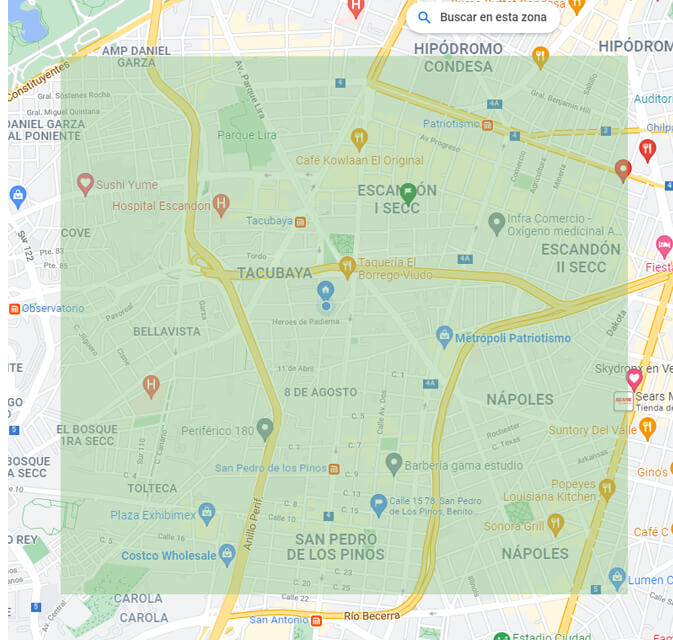
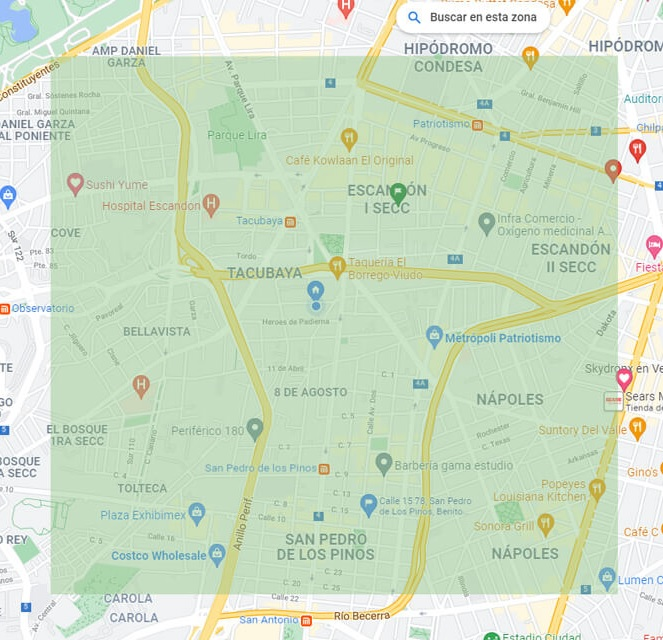
cambios esteticos y animaciones

diff --git a/pages/preguntasFrecuentes.html b/pages/preguntasFrecuentes.html
@@ -16,6 +16,8 @@
   <link rel="preconnect" href="https://fonts.googleapis.com" />
   <link rel="preconnect" href="https://fonts.gstatic.com" crossorigin />
   <link href="https://fonts.googleapis.com/css2?family=Josefin+Sans:ital@1&display=swap" rel="stylesheet" />
+  <!--animateCss-->
+  <link rel="stylesheet" href="https://cdnjs.cloudflare.com/ajax/libs/animate.css/4.1.1/animate.min.css" />
   <!--CSS-->
   <link rel="stylesheet" href="../css/main.css" />
   <!--<link rel="stylesheet" href="../css/respaldo.css" />-->
@@ -63,8 +65,8 @@
   </header>
   <main>
     <section class="preguntasInicio">
-      <h1 class="titulosDoc">Preguntas Frecuentes.</h1>
-      <h2 class="subtitulos">
+      <h1 class="titulosDoc animate__animated animate__backInLeft">Preguntas Frecuentes.</h1>
+      <h2 class="subtitulos animate__animated animate__backInRight">
         Queremos que sea un negocio completamente transparente.
       </h2>
       <div class="pfContenedor">
@@ -80,7 +82,7 @@
         </div>
         <img src="../media/images/faq.png" alt="Imagen de Duda" />
       </div>
-      <div class="accordion accordion-flush" id="accordionFlushExample" style="background-color: blue">
+      <div class="accordion accordion-flush animate__animated animate__backInUp" id="accordionFlushExample" style="background-color: blue">
         <div class="accordion-item">
           <h2 class="accordion-header" id="headingOne">
             <button class="accordion-button" type="button" data-bs-toggle="collapse" data-bs-target="#collapseOne"
@@ -88,13 +90,13 @@
               ¿Comparten todas las visiones de la alimentación?
             </button>
           </h2>
-          <div id="collapseOne" class="accordion-collapse collapse show" aria-labelledby="headingOne"
+          <div id="collapseOne" class="accordion-collapse collapse" aria-labelledby="headingOne"
             data-bs-parent="#accordionExample">
             <div class="accordion-body">
-              Contamos con un menú vegano que cumple con todos los
+              <p style="color: #c03370;"> Contamos con un menú vegano que cumple con todos los
               requerimientos nutricionales necesarios en una comida, y
               contamos con platillos bajos en calorías para las personas que
-              necesitan cuidar su alimentacion y su peso.
+              necesitan cuidar su alimentacion y su peso. </p>
             </div>
           </div>
         </div>
@@ -108,9 +110,9 @@
           <div id="collapseTwo" class="accordion-collapse collapse" aria-labelledby="headingTwo"
             data-bs-parent="#accordionExample">
             <div class="accordion-body">
-              Utilizamos para transportarnos biciletas mecánicas para los
+              <p style="color: #c03370;"> Utilizamos para transportarnos biciletas mecánicas para los
               envíos cercanos, y para los envíos más alejados bicicleta
-              eléctrica. Nuestras emisiones son prácticamente inexistentes :)
+              eléctrica. Nuestras emisiones son prácticamente inexistentes :) </p>
             </div>
           </div>
         </div>
@@ -124,15 +126,15 @@
           <div id="collapseThree" class="accordion-collapse collapse" aria-labelledby="headingThree"
             data-bs-parent="#accordionExample">
             <div class="accordion-body">
-              No te preocupes más por los residuos, pues nuestros empaques son
+              <p style="color: #c03370;"> No te preocupes más por los residuos, pues nuestros empaques son
               100% biodegradables y reciclables, además de que contamos con la
               opción de utilizar tus propios tuppers para la comida (nosotros
-              los recojemos y después te los enviamos con rica comida)
+              los recojemos y después te los enviamos con deliciosa comida)</p>
             </div>
           </div>
         </div>
       </div>
-      <p class="textosComunes">
+      <p class="textosComunes animate__animated animate__backInUp">
         Si no logramos responder tus dudas, no dudes en comunicarte con
         nosotros en "Contacto", enviarnos un correo o comunicarte con nosotros
         por whastapp (whatsapp unicamente en horario de 6pm a 11 pm)

diff --git a/pages/encuentranos.html b/pages/encuentranos.html
@@ -81,12 +81,12 @@
             </p>
         </section>
         <section class="iframe">
-            <div class="iframe__contenedor">
+            <div class="iframe__contenedor animate__animated animate__fadeInLeft">
                 <iframe
                     src="https://www.google.com/maps/embed?pb=!1m18!1m12!1m3!1d2986.968425522168!2d-99.1857784536736!3d19.397535925084952!2m3!1f0!2f0!3f0!3m2!1i1024!2i768!4f13.1!3m3!1m2!1s0x85d1ff639f88ac35%3A0x4d53ab96b42cb916!2sHeroes%20de%201810%2011%2C%20Tacubaya%2C%20Miguel%20Hidalgo%2C%2011870%20Ciudad%20de%20M%C3%A9xico%2C%20CDMX!5e0!3m2!1ses!2smx!4v1641775980747!5m2!1ses!2smx"
                     width="100%" height="450px" style="border:0;" allowfullscreen="" loading="lazy"></iframe>
             </div>
-            <ul class="iframe__lista">
+            <ul class="iframe__lista animate__animated animate__fadeInRight">
                 <li>Dirección: <i class="fas fa-map-marked-alt"></i> </li>
                 <li>Avenida Siempre viva 345, Iztacalco</li>
                 <li>Colonia Tacubaya</li>
@@ -95,10 +95,10 @@
             </ul>
         </section>
         <section class="envios">
-            <h2 class="titulosDoc">Cobertura de envíos</h2>
+            <h2 class="titulosDoc">Cobertura de envíos.</h2>
             <div class="envios__contenedor">
-                <img src="../media/images/mapaDisponible.jpg" alt="mapa">
-                <div class="contenedor__texto">
+                <img src="../media/images/mapaDisponible.jpg" data-aos="fade-right" alt="mapa">
+                <div class="contenedor__texto" data-aos="fade-left">
                 <p class="textosComunes">Esta es el area que cubren nuestros repartidores actualmente.</p>
                 <p class="textosComunes">Si no encuentras tú colonia ¡No te preocupes!
                     Muy pronto estaremos ahí.</p>
@@ -108,7 +108,7 @@
         <h2 class="titulosDoc">¡Escríbenos!</h2>
         <section class="escribenos">
             <!--Formulario-->
-            <div class="contenedor" data-aos="zoom-in">
+            <div class="contenedor" data-aos="zoom-in-up">
                 <div class="Contact-Wrapper">
                     <div class="contact-form">
                         <form action="">

diff --git a/pages/menu.html b/pages/menu.html
@@ -14,6 +14,8 @@
   <!--bootstrap-->
   <link href="https://cdn.jsdelivr.net/npm/bootstrap@5.1.3/dist/css/bootstrap.min.css" rel="stylesheet"
     integrity="sha384-1BmE4kWBq78iYhFldvKuhfTAU6auU8tT94WrHftjDbrCEXSU1oBoqyl2QvZ6jIW3" crossorigin="anonymous" />
+  <!--animateCss-->
+  <link rel="stylesheet" href="https://cdnjs.cloudflare.com/ajax/libs/animate.css/4.1.1/animate.min.css" />
   <!--Fuentes-->
   <link rel="preconnect" href="https://fonts.googleapis.com" />
   <link rel="preconnect" href="https://fonts.gstatic.com" crossorigin />
@@ -77,9 +79,9 @@
       </p>
       <div class="menuInicio__contenedor">
         <video src="../media/video/videoMenu.mp4" autoplay loop muted></video>
-        <div class="menuInicio_contenedorTextos">
+        <div class="menuInicio__contenedorTextos">
           <h2 class="subtitulos">¿Cómo ordenar? <i class="fas fa-hamburger"></i></h2>
-          <ul class="menuInicio__lista textosComunes" style="list-style: none;">
+          <ul class="menuInicio__lista textosComunes3" style="list-style: none;">
             <li>La comida se pide por "tiempos" y en paquete.</li>
             <li>
               Primer tiempo: Sopa (cada día es diferente, a excepción del consomé

diff --git a/css/main.css b/css/main.css
@@ -134,10 +134,17 @@ body {
 
 .textosComunes2 {
   text-align: center;
-  font-size: 18px;
+  font-size: 22px;
   padding: 2px;
   text-shadow: 2px 4px 3px rgba(0, 0, 0, 0.3);
   color: #41393e;
+}
+
+.textosComunes3 {
+  text-justify: initial;
+  text-align: start;
+  margin: 1rem;
+  padding: 1rem;
 }
 
 /* Index pag */
@@ -560,7 +567,8 @@ body {
 }
 
 .envios__contenedor img {
-  padding: 20px;
+  -webkit-box-shadow: rgba(0, 0, 0, 0.35) 0px 5px 15px;
+          box-shadow: rgba(0, 0, 0, 0.35) 0px 5px 15px;
 }
 
 @media screen and (max-width: 768px) {
@@ -712,6 +720,13 @@ body {
   padding-left: 1rem;
 }
 
+.preguntasInicio .pfContenedor .pfContenedorTextos p {
+  -webkit-animation: backInLeft;
+          animation: backInLeft;
+  -webkit-animation-duration: 1.5s;
+          animation-duration: 1.5s;
+}
+
 @media screen and (max-width: 768px) {
   .preguntasInicio .pfContenedor .pfContenedorTextos p {
     font-size: 17px;
@@ -725,6 +740,10 @@ body {
 }
 
 .preguntasInicio .pfContenedor img {
+  -webkit-animation: backInRight;
+          animation: backInRight;
+  -webkit-animation-duration: 1.5s;
+          animation-duration: 1.5s;
   width: 600px;
 }
 

diff --git a/css/components/_views.scss b/css/components/_views.scss
@@ -261,7 +261,7 @@ $coloresveg: (
             flex-direction: column;
         }
         img {
-            padding: 20px;
+            box-shadow: rgba(0, 0, 0, 0.35) 0px 5px 15px;
             @include tablet {
                 width: 450px;
             }
@@ -378,6 +378,8 @@ $coloresveg: (
         justify-content: space-evenly;
         .pfContenedorTextos {
             p {
+                animation: backInLeft;
+                animation-duration: 1.5s;
                 @include tablet {
                     font-size: 17px;
                 }
@@ -391,6 +393,8 @@ $coloresveg: (
             padding-left: 1rem;
         }
         img {
+            animation: backInRight;
+            animation-duration: 1.5s;
             width: 600px;
             @include tablet {
                 width: 450px;

diff --git a/css/components/_texts.scss b/css/components/_texts.scss
@@ -92,8 +92,15 @@
 
 .textosComunes2 {
     text-align: center;
-    font-size: 18px;
+    font-size: 22px;
     padding: 2px;
     text-shadow: 2px 4px 3px rgba(0,0,0,0.3);
     color: #41393e;
+}
+
+.textosComunes3 {
+    text-justify: initial;
+    text-align: start;
+    margin: 1rem;
+    padding: 1rem;
 }
